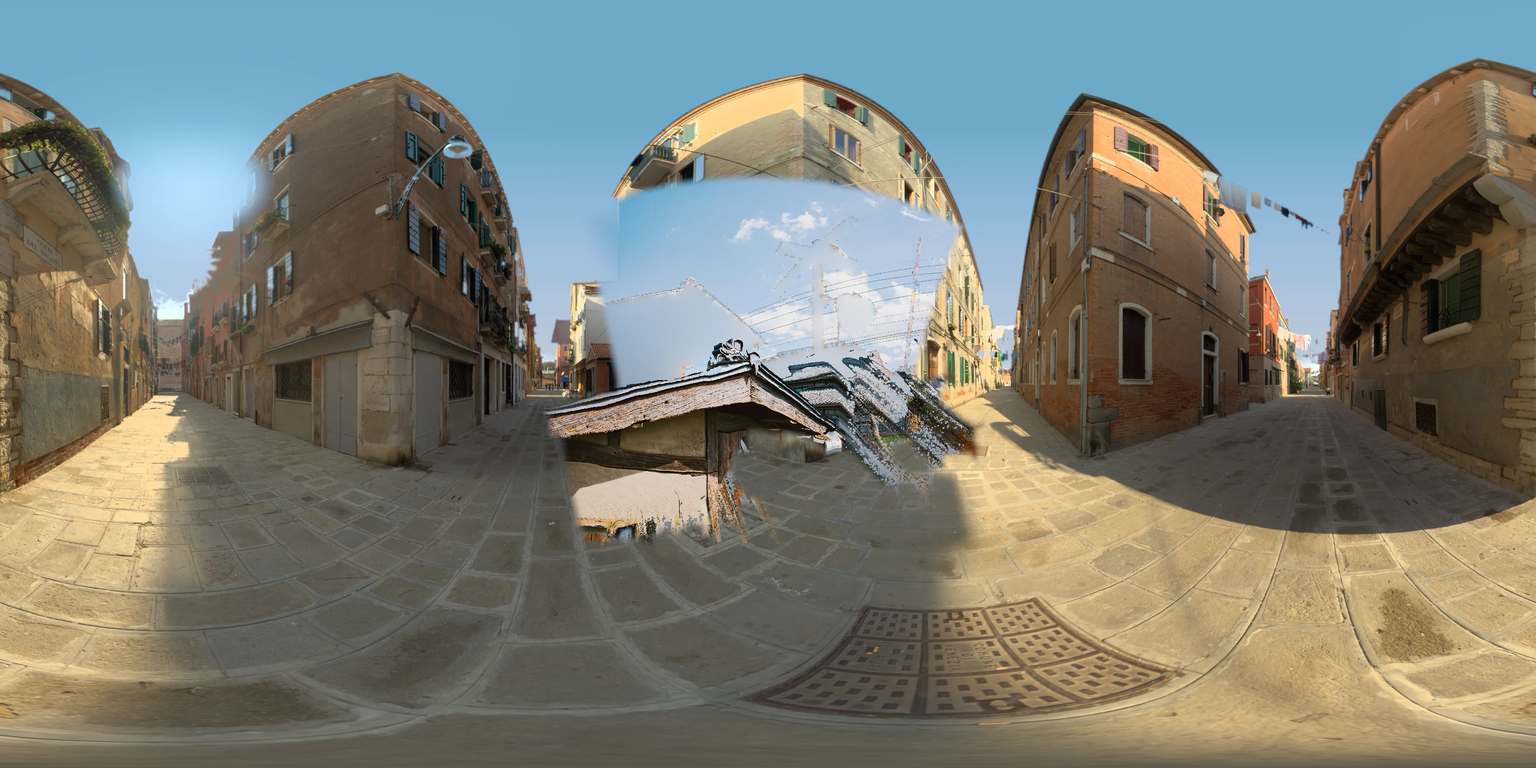
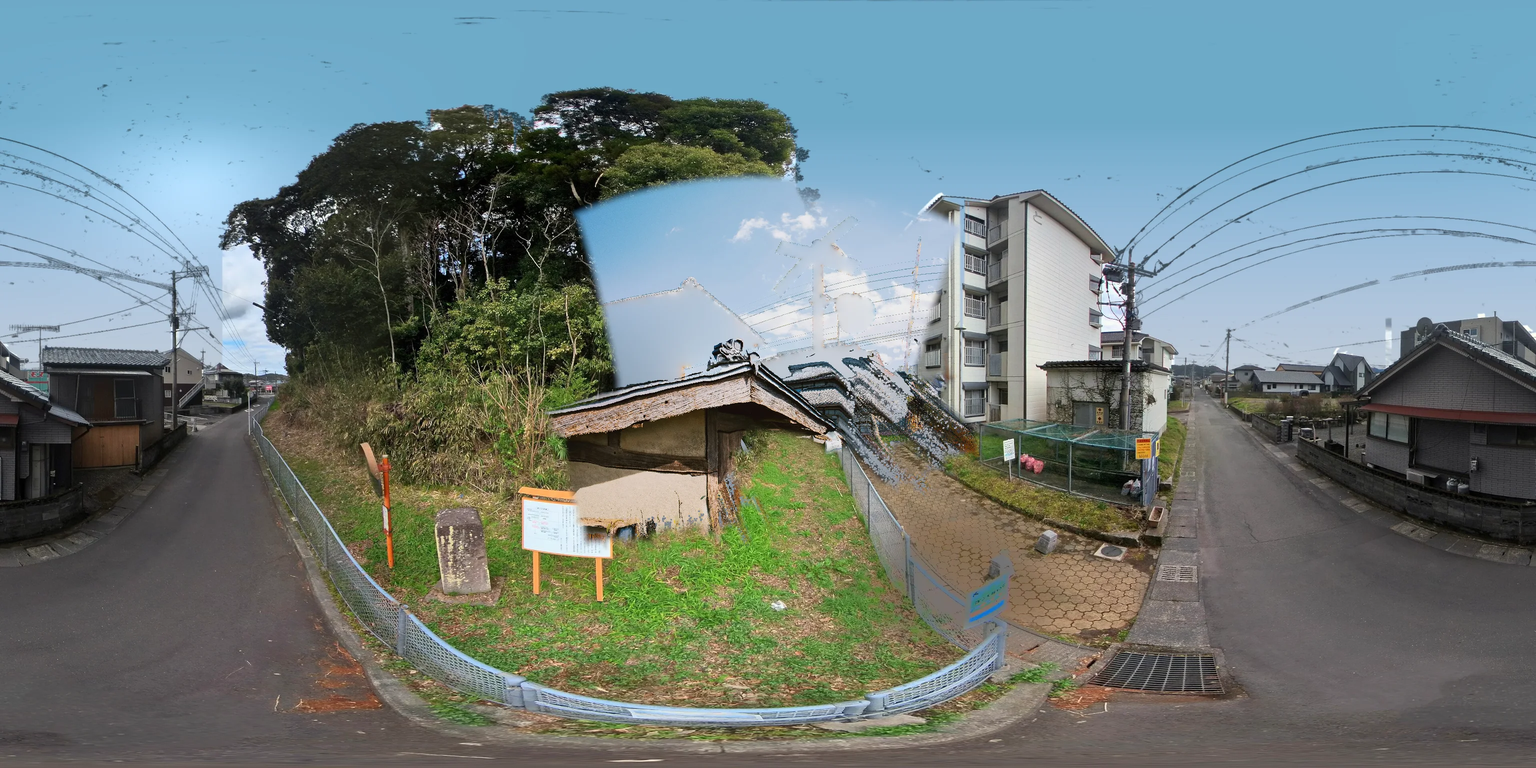
Lab: curve-mirror shows a real Japanese street behind the camera (blind judge 5 vs 3)
Claude-Session: https://claude.ai/code/session_01RqENhngNCzDFmJWDZueXGV

diff --git a/src/app/lab/curve-mirror/curveMirrorEngine.js b/src/app/lab/curve-mirror/curveMirrorEngine.js
@@ -11,9 +11,8 @@ import { createFilm, FILM_PRESETS } from "../_kit/film";
 // degrees), the house's shading gives the sun. Offline, everything the mirror
 // can see is gathered into one panorama centred on it: in front of the lens,
 // the photograph's own pixels re-projected from where the mirror stands; behind
-// the lens and below the frame, a Poly Haven HDRI of a narrow old street,
-// turned to the photo's sun and given the photo's sky (bake:
-// tools/depth/bakes/curve-mirror).
+// the lens and below the frame, a 360 of a Japanese residential street, poles
+// and wires, given the photo's summer sky (bake: tools/depth/bakes/curve-mirror).
 //
 // Every frame, per pixel:
 //  - the mirror is traced exactly: a sphere cap, 800 mm across with a 1.6 m

diff --git a/tools/depth/bakes/curve-mirror/bake.py b/tools/depth/bakes/curve-mirror/bake.py
@@ -2,7 +2,15 @@
 
     python3 -I tools/depth/bakes/curve-mirror/bake.py WORK OUT
       WORK: photo.png (2464x1632), moge/ (normals.py), sky.png (segment.py sky),
-            up.json (vp.py), and the Poly Haven HDRI path in HDRI below
+            up.json (vp.py)
+      env:  PANO (the world behind the lens: a Poly Haven .hdr, sun-matched, or an
+            8-bit equirect photo), PANO_ROT (turns, 8-bit only), PANO_SKY (its
+            segment.py sky matte, 8-bit only)
+
+    As shipped:
+      PANO=hashi-3840.jpg PANO_SKY=hashi-sky.png PANO_ROT=0
+      (Commons "HashiNoMisasagi Kofun, Funkyu South 360-degree.jpg", CC0, 3840 px
+      thumbnail; sky: segment.py sky on it)
       OUT:  public/lab/curve-mirror (photo.webp, env.webp, envd.png, aux.png)
             + scene.json
 
@@ -16,10 +24,12 @@ photo's vertical vanishing point):
     pixel is splatted into the panorama from the mirror's position with a
     z-buffer, so the house and the crossbuck are seen from where the mirror
     is, not from where the lens was. The photo's sky is at infinity.
-  - behind the camera and below the frame, Poly Haven's Venetian Crossroads
-    (CC0), turned so its sun's azimuth matches the photo's, its exposure and
-    white balance matched to the photo's sky at the same elevation, its sun
-    disc taken out (the engine draws the sun analytically, at HDR).
+  - behind the camera and below the frame, a 360 of a Japanese residential
+    street (two lanes, utility poles and wires; CC0, Wikimedia Commons), exposed
+    to the photo's sunlit walls, its overcast sky replaced by a fit of the
+    photo's own clear sky by elevation with the wires kept. (A Poly Haven .hdr
+    also works: turned to the photo's sun, its sun disc taken out; the engine
+    draws the sun analytically, at HDR.)
   - the seam is feathered over ~9 degrees inside the photo's coverage.
 
 Also: a distance panorama (for parallax across the 0.8 m face), SH9 irradiance
@@ -37,7 +47,10 @@ sys.path.insert(0, os.path.join(os.path.dirname(os.path.abspath(__file__)), ".."
 import kit  # noqa: E402
 
 WORK, OUT = sys.argv[1], sys.argv[2]
-HDRI = "/tmp/claude-0/dl-curve-mirror/venetian_crossroads_4k.hdr"
+# the world behind the lens: a Poly Haven HDRI (sun-matched) or an 8-bit 360 photo
+PANO = os.environ.get("PANO", "/tmp/claude-0/dl-curve-mirror/venetian_crossroads_4k.hdr")
+PANO_ROT = float(os.environ.get("PANO_ROT", "0"))
+PANO_SKY = os.environ.get("PANO_SKY", "")  # sky matte of an 8-bit pano (segment.py sky)
 EW, EH = 3072, 1536
 K = 0.62  # MoGe metric -> real metres (crossbuck board ~0.22 m wide, pole ~0.2 m)
 CAM_H = 1.45  # lens height above the road, m (the frame shows no ground)
@@ -172,35 +185,78 @@ alpha_w = kit.smoothstep(0, EW * 11 / 360, dt)
 T.mark("cover")
 
 # ---------------------------------------------------------------- HDRI layer
-hdr = cv2.imread(HDRI, cv2.IMREAD_UNCHANGED)[..., ::-1].astype(np.float32)
-hh, hw = hdr.shape[:2]
-hl = kit.luma(hdr)
-sy, sx = np.unravel_index(np.argmax(cv2.GaussianBlur(hl, (0, 0), 3)), hl.shape)
-h_lon = (sx + 0.5) / hw - 0.5
-h_el = 90 - (sy + 0.5) / hh * 180
-# rotate so its sun sits at our sun's azimuth
 s_lon = np.arctan2(sun[0], -sun[2]) / (2 * np.pi)
-rot = s_lon - h_lon
-print("hdri sun el %.1f, lon %.3f -> rotate %.3f turns" % (h_el, h_lon, rot))
-# take out the sun disc and its corona core (the engine draws the sun)
-yy, xx = np.mgrid[0:hh, 0:hw]
-dsun = np.hypot((xx - sx + hw / 2) % hw - hw / 2, yy - sy)
-core = dsun < hh * 6 / 180
-ring = (dsun >= hh * 6 / 180) & (dsun < hh * 9 / 180)
-lim = np.percentile(hl[ring], 60)
-over = hl > lim * 1.0
-hole = core & over
-hdr_c = hdr.copy()
-hdr_c[hole] = 0
-filled = kit.pushpull(np.log(hdr_c + 1e-4), (~hole).astype(np.float32))
-hdr_c[hole] = np.exp(filled[hole])
-del filled
+if PANO.endswith(".hdr"):
+    hdr = cv2.imread(PANO, cv2.IMREAD_UNCHANGED)[..., ::-1].astype(np.float32)
+    hh, hw = hdr.shape[:2]
+    hl = kit.luma(hdr)
+    sy, sx = np.unravel_index(np.argmax(cv2.GaussianBlur(hl, (0, 0), 3)), hl.shape)
+    h_lon = (sx + 0.5) / hw - 0.5
+    h_el = 90 - (sy + 0.5) / hh * 180
+    # rotate so its sun sits at our sun's azimuth
+    rot = s_lon - h_lon
+    print("hdri sun el %.1f, lon %.3f -> rotate %.3f turns" % (h_el, h_lon, rot))
+    # take out the sun disc and its corona core (the engine draws the sun)
+    yy, xx = np.mgrid[0:hh, 0:hw]
+    dsun = np.hypot((xx - sx + hw / 2) % hw - hw / 2, yy - sy)
+    core = dsun < hh * 6 / 180
+    ring = (dsun >= hh * 6 / 180) & (dsun < hh * 9 / 180)
+    lim = np.percentile(hl[ring], 60)
+    over = hl > lim * 1.0
+    hole = core & over
+    hdr_c = hdr.copy()
+    hdr_c[hole] = 0
+    filled = kit.pushpull(np.log(hdr_c + 1e-4), (~hole).astype(np.float32))
+    hdr_c[hole] = np.exp(filled[hole])
+    del filled
+else:
+    # an 8-bit equirect photo (no sun disc in it: an overcast-bright sky).
+    # Read at half size if over 8000 px, linearised; turned by PANO_ROT so its streets
+    # sit behind the lens; no sun to remove (the engine draws the photo's).
+    big = cv2.imread(PANO, cv2.IMREAD_COLOR)
+    if big.shape[1] > 8000:
+        big = cv2.imread(PANO, cv2.IMREAD_REDUCED_COLOR_2)
+    if big.shape[1] > 6144:
+        big = cv2.resize(big, (6144, 3072), interpolation=cv2.INTER_AREA)
+    c = big[..., ::-1].astype(np.float32) / 255
+    del big
+    hdr = np.where(c <= 0.04045, c / 12.92, ((c + 0.055) / 1.055) ** 2.4).astype(np.float32)
+    del c
+    hh, hw = hdr.shape[:2]
+    rot = PANO_ROT
+    h_el = -SUN_EL  # "its sun" opposite ours, so the corona and glare steps do nothing
+    h_lon = s_lon + 0.5 - rot
+    hole = np.zeros((hh, hw), bool)
+    hdr_c = hdr
+    # its sky (overcast) becomes the photo's summer sky, keeping the wires:
+    # segment.py's sky matte, limited to what is connected to the zenith
+    # down each column (a white apartment wall is not sky), wires bridged
+    m = cv2.resize(kit.load_gray(PANO_SKY), (hw, hh), interpolation=cv2.INTER_LINEAR)
+    mb = cv2.morphologyEx((m > 0.3).astype(np.uint8), cv2.MORPH_CLOSE, np.ones((15, 5), np.uint8))
+    stop = np.full(hw, hh, np.int32)
+    run = np.zeros(hw, np.int32)
+    for y in range(hh):
+        run = np.where(mb[y] == 0, run + 1, 0)
+        hit = (run >= 6) & (stop == hh)
+        stop[hit] = y - 5
+    yy = np.arange(hh)[:, None]
+    p_sky = (yy < stop[None, :]).astype(np.float32) * np.where(yy > stop[None, :] - 14, np.clip(m * 1.4, 0, 1), 1.0)
+    p_sky = cv2.GaussianBlur(p_sky, (0, 0), 1.0)
+    L = kit.luma(hdr)
+    Lc = cv2.morphologyEx(L, cv2.MORPH_CLOSE, np.ones((9, 9), np.uint8))
+    # only thin, sharply darker lines are wires; cloud edges are not
+    p_wire = (1 - 0.85 * kit.smoothstep(0.86, 0.55, L / np.maximum(Lc, 1e-4))).astype(np.float32)
+    p_wire = cv2.GaussianBlur(p_wire, (0, 0), 0.6)
+    print("pano %dx%d, rotate %.3f turns" % (hw, hh, rot))
 
 E = dirs(EW, EH)
 Eu, Ev = to_uv(E)
 Hx = ((Eu - rot) % 1.0) * hw - 0.5
 Hy = Ev * hh - 0.5
 env_h = cv2.remap(hdr_c, Hx.astype(np.float32), Hy.astype(np.float32), cv2.INTER_LINEAR, borderMode=cv2.BORDER_WRAP)
+if not PANO.endswith(".hdr"):
+    rm = lambda a: cv2.remap(a, Hx.astype(np.float32), Hy.astype(np.float32), cv2.INTER_LINEAR, borderMode=cv2.BORDER_WRAP)
+    sky_e, wire_e = rm(p_sky), rm(p_wire)
 hole_e = cv2.remap(cv2.dilate(hole.astype(np.uint8), np.ones((9, 9), np.uint8)).astype(np.float32), Hx.astype(np.float32), Hy.astype(np.float32), cv2.INTER_LINEAR, borderMode=cv2.BORDER_WRAP)
 del hdr, hdr_c
 T.mark("hdri")
@@ -215,6 +271,8 @@ hsky = kit.smoothstep(0.12, 0.3, hchroma) * kit.smoothstep(-2, 6, elev) * kit.sm
 hsky = cv2.dilate(hsky.astype(np.float32), np.ones((5, 5), np.uint8))
 hsky = np.maximum(hsky, np.clip(hole_e * 1.5, 0, 1))
 hsky = cv2.GaussianBlur(hsky, (0, 0), 1.2)
+if not PANO.endswith(".hdr"):
+    hsky = sky_e
 hsurf = (hsky < 0.2) & (elev < 60)
 psurf = lin[surf_all]
 expo = np.percentile(kit.luma(psurf), 97) / np.percentile(hl[hsurf], 97)
@@ -251,6 +309,9 @@ g_h = np.degrees(np.arccos(np.clip(E @ h_sun, -1, 1)))
 # the old sun's corona (bright, white) is sky too
 glare = kit.smoothstep(16, 9, g_h) * kit.smoothstep(0.9, 1.3, kit.luma(env_h) / np.maximum(kit.luma(skym), 1e-4))
 hsky = np.maximum(hsky, cv2.GaussianBlur(glare.astype(np.float32), (0, 0), 2))
+if not PANO.endswith(".hdr"):
+    hsky = sky_e
+    skym = skym * wire_e[..., None]
 env_h = skym * hsky[..., None] + env_h * (1 - hsky[..., None])
 # the HDRI sun's glare on its walls goes (its sun is gone)
 near = kit.smoothstep(26, 8, g_h) * (1 - hsky)
@@ -311,11 +372,11 @@ T.mark("aux")
 
 # ---------------------------------------------------------------- write
 enc = lambda c: np.where(c <= 0.0031308, c * 12.92, 1.055 * np.power(np.clip(c, 0.0031308, None), 1 / 2.4) - 0.055)
-kit.save_rgb(f"{OUT}/env.webp", enc(env), quality=90)
+kit.save_rgb(f"{OUT}/env.webp", enc(env), quality=84)
 kit.save_gray(f"{OUT}/envd.png", code)
 q = np.clip(np.round(aux * 255), 0, 255).astype(np.uint8)
 cv2.imwrite(f"{OUT}/aux.png", q[..., ::-1])
-cv2.imwrite(f"{OUT}/photo.webp", cv2.imread(f"{WORK}/photo.png"), [cv2.IMWRITE_WEBP_QUALITY, 92])
+cv2.imwrite(f"{OUT}/photo.webp", cv2.imread(f"{WORK}/photo.png"), [cv2.IMWRITE_WEBP_QUALITY, 88])
 scene = {
     "photo": [W, H],
     "f": fx,
